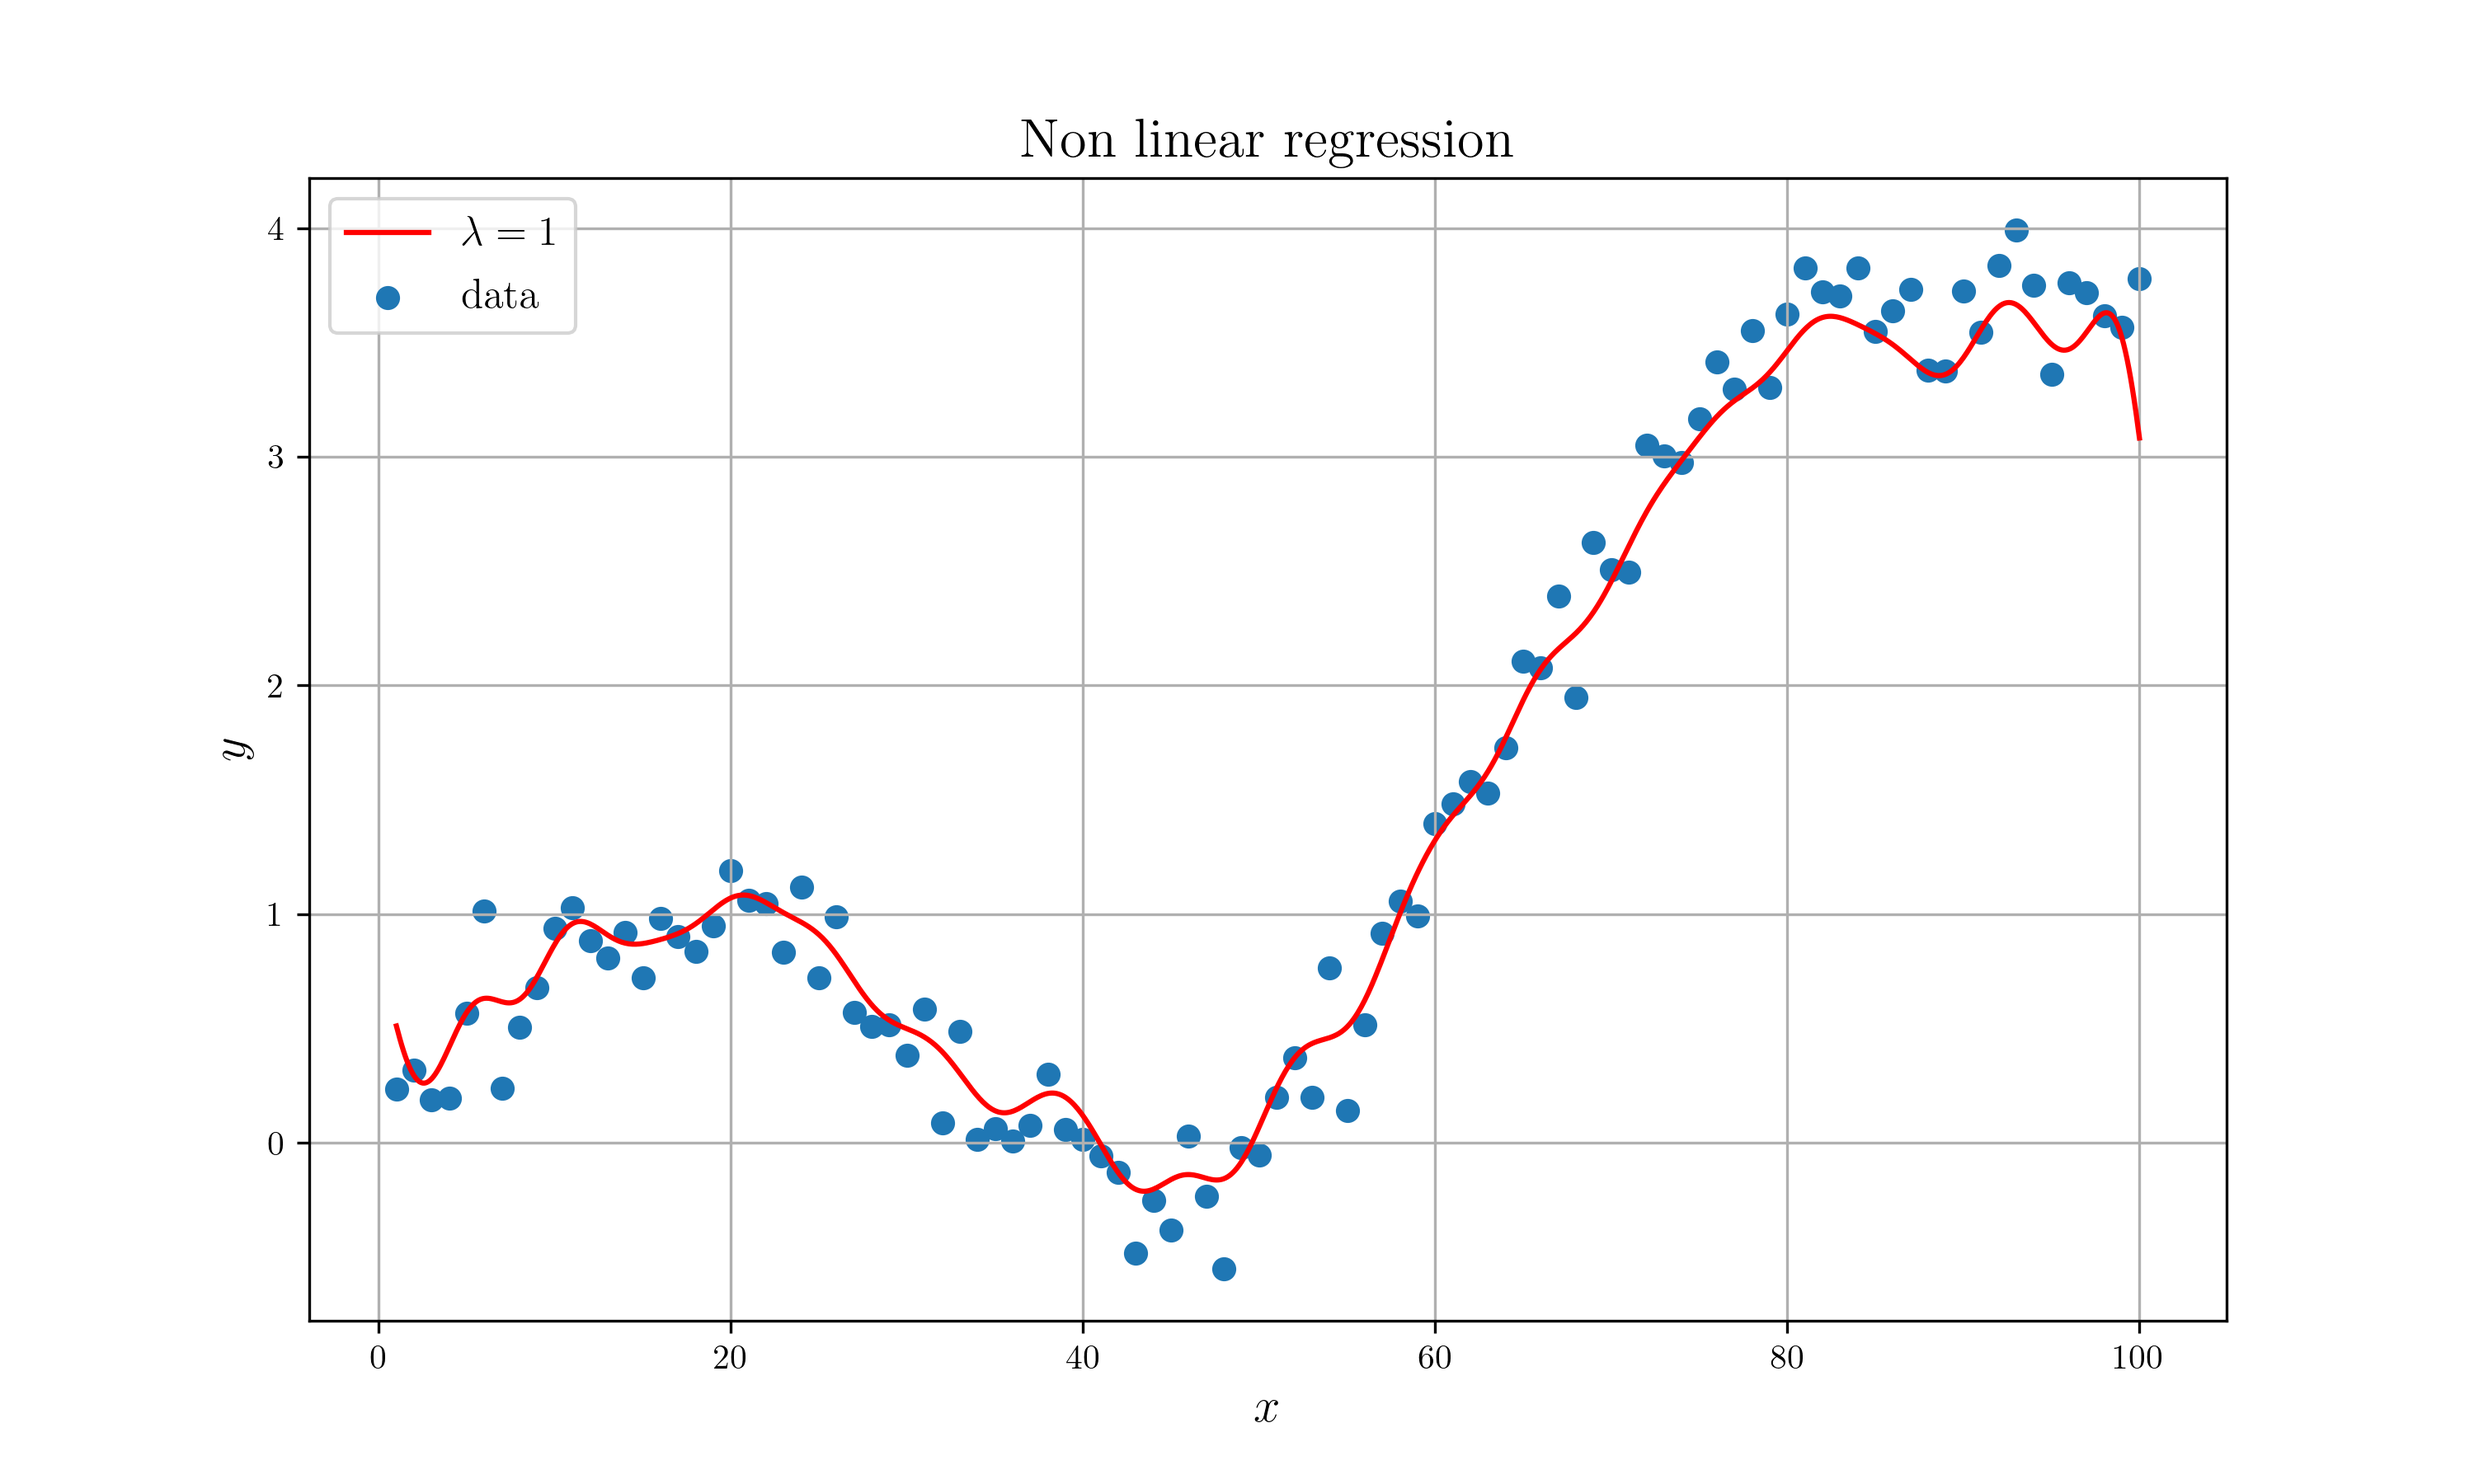
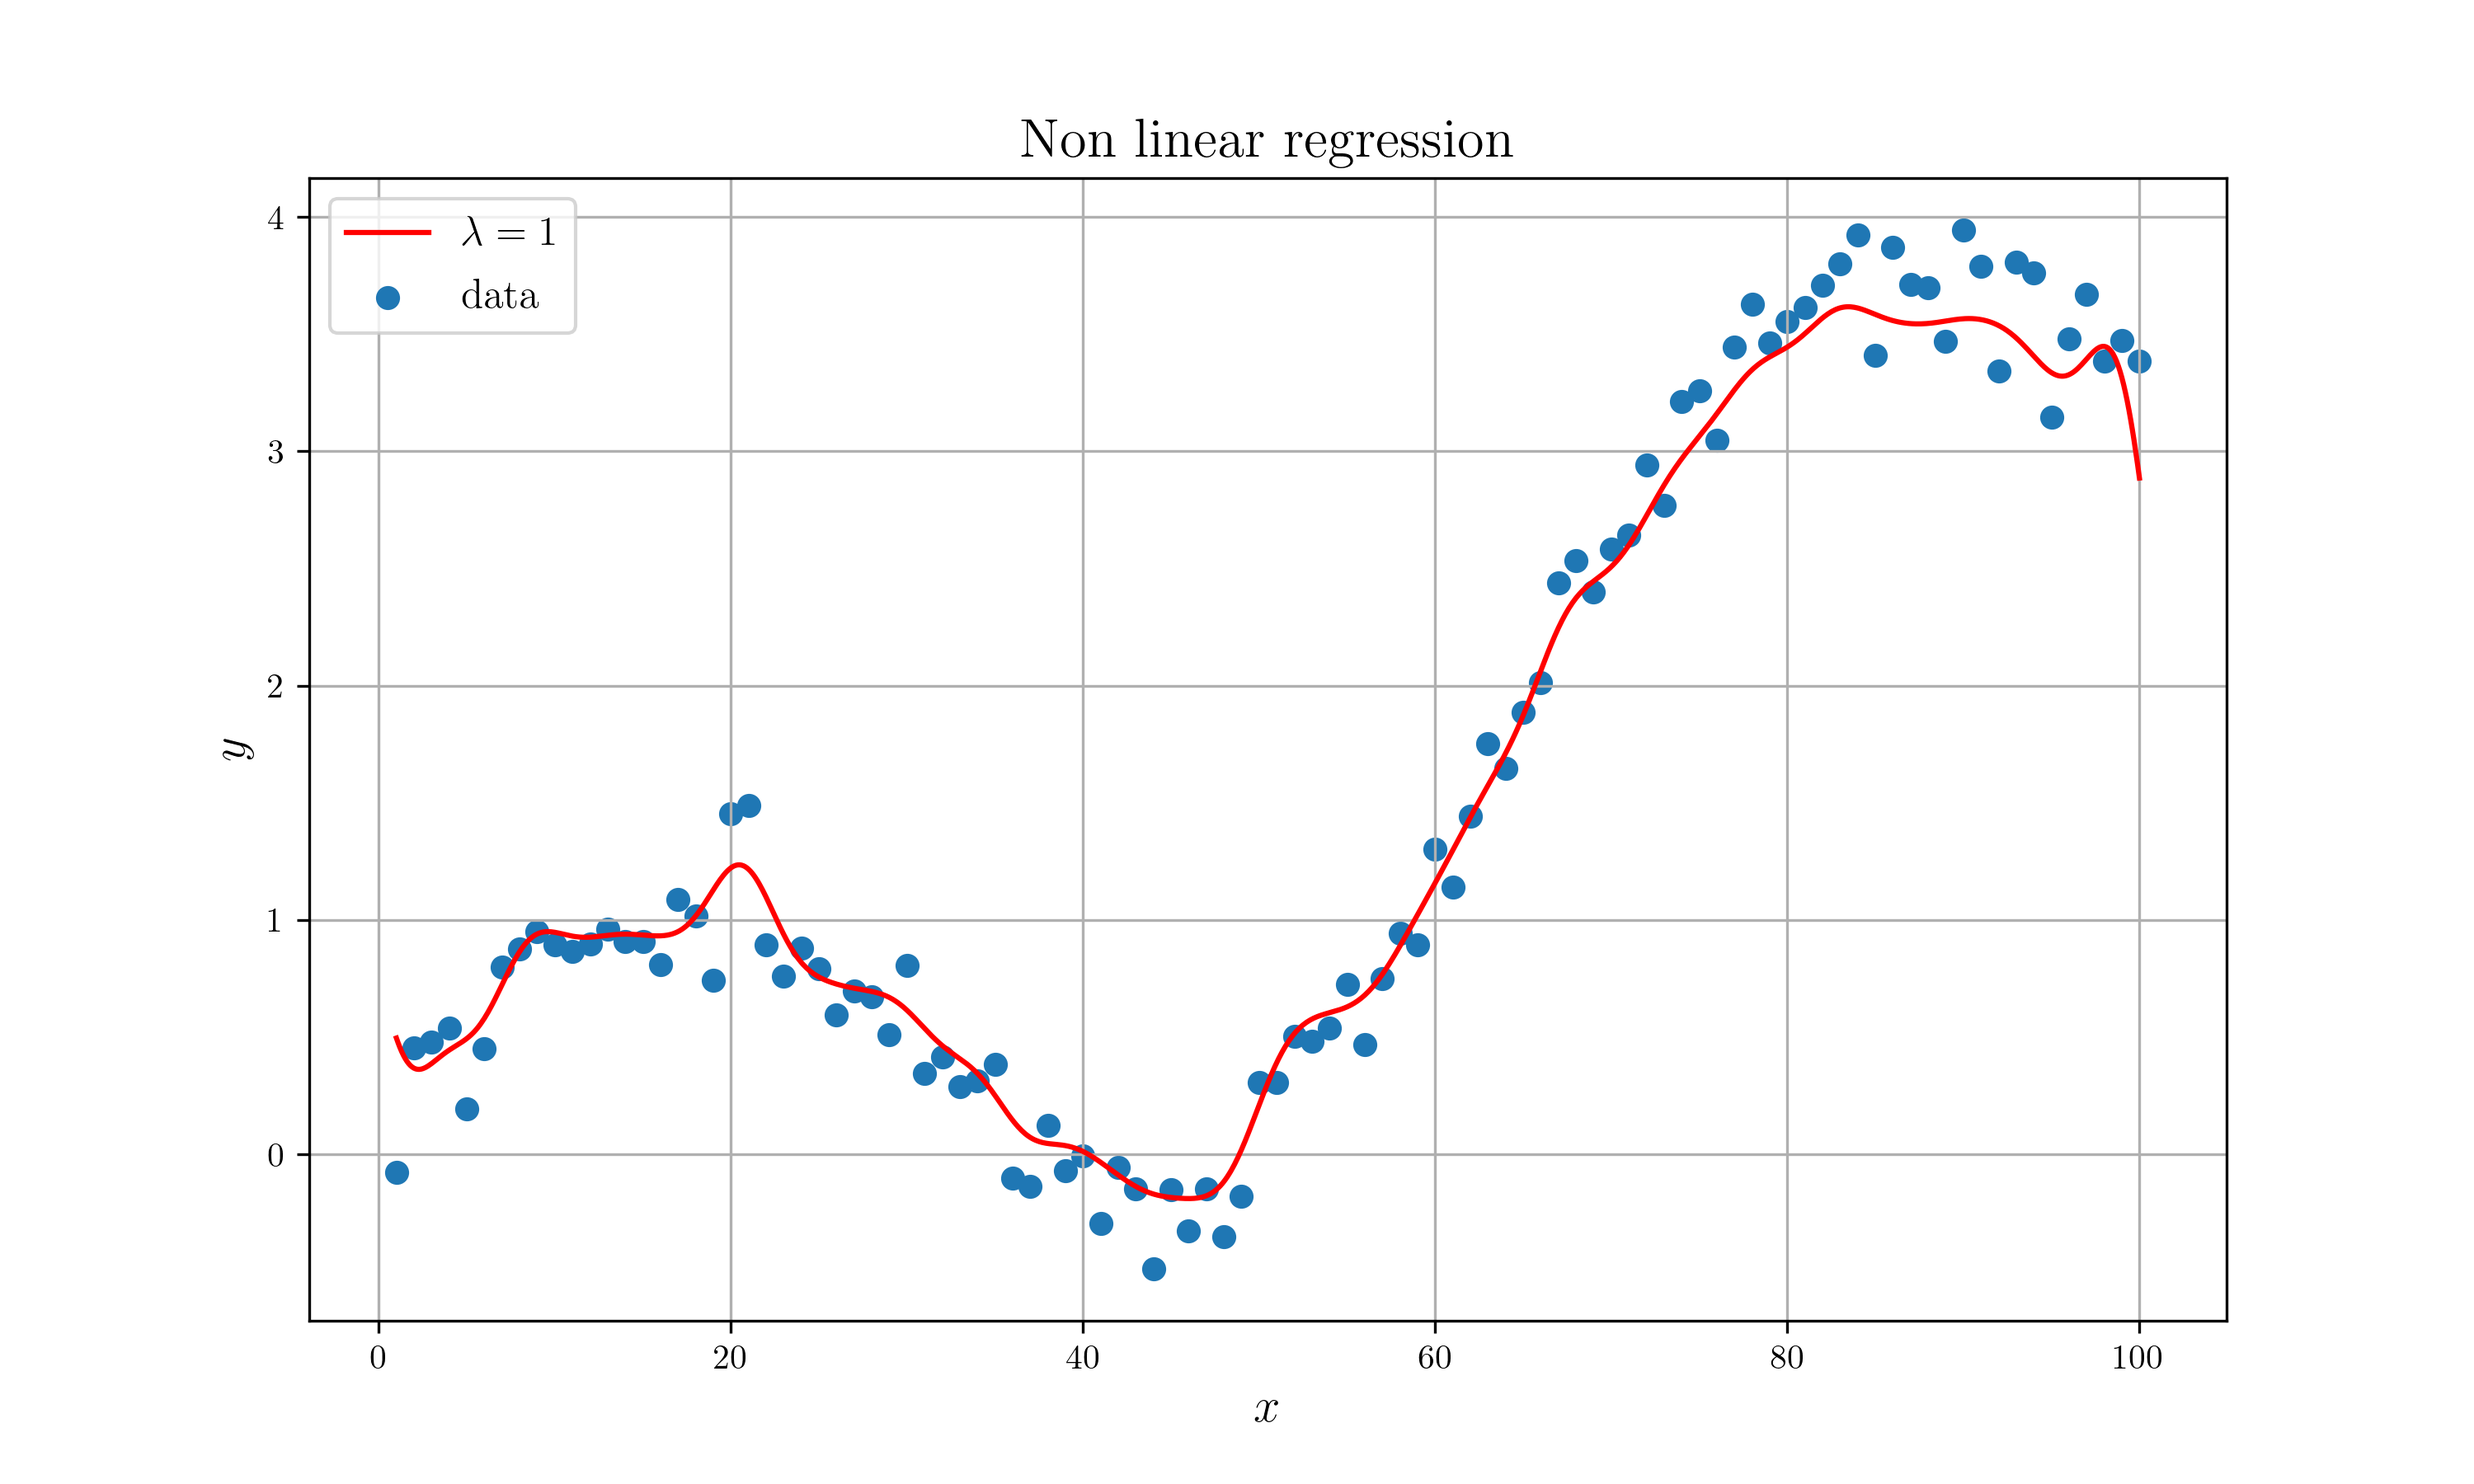
Linear regression version update 0.28.1

Changed region(s): [[0.124, 0.1244, 0.899, 0.8711]]

diff --git a/Machine_Learning/linear_reg_ridge/src/lib.rs b/Machine_Learning/linear_reg_ridge/src/lib.rs
@@ -1,18 +1,18 @@
 extern crate peroxide;
-use peroxide::*;
+use peroxide::fuga::*;
 
 pub fn f(x: f64) -> f64 {
     (x / 10f64).sin() + (x / 50f64).powi(2)
 }
 
 pub fn gen_sample() -> DataFrame {
-    let mut df = DataFrame::with_header(vec!["x", "y"]);
+    let mut df = DataFrame::new(vec![]);
     let normal = Normal(0, 1);
     let e = normal.sample(100).fmap(|t| 0.2 * t);
     let x = seq(1, 100, 1);
-    let y = x.fmap(f).add(&e);
-    df["x"] = x;
-    df["y"] = y;
+    let y = x.fmap(f).add_v(&e);
+    df.push("x", Series::new(x));
+    df.push("y", Series::new(y));
     df
 }
 
@@ -36,20 +36,20 @@ pub fn design_matrix(s: f64) -> Matrix {
     Matrix::from_index(|i, j| phi(j, s, (i+1) as f64), (100, 101))
 }
 
-pub fn w_mle(s: f64, t: &Vec<f64>) -> Matrix {
+pub fn w_mle(s: f64, t: &Vec<f64>) -> Vec<f64> {
     let phi_mat = design_matrix(s);
-    phi_mat.pseudo_inv().unwrap() * t.to_matrix()
+    phi_mat.pseudo_inv().apply(t)
 }
 
-pub fn y(s: f64, w: &Matrix, x: f64) -> f64 {
+pub fn y(s: f64, w: &Vec<f64>, x: f64) -> f64 {
     let phi = phi_vec(s, x);
-    (w.t() * phi)[(0, 0)]
+    w.dot(&phi)
 }
 
 
-pub fn w_ml_reg(s: f64, lam: f64, t: &Vec<f64>) -> Matrix {
+pub fn w_ml_reg(s: f64, lam: f64, t: &Vec<f64>) -> Vec<f64> {
     let phi_mat = design_matrix(s);
     let lamda_eye = lam * eye(101);
     let pt = phi_mat.t();
-    (&lamda_eye + &(&pt * &phi_mat)).inv().unwrap() * pt * t.to_matrix()
+    ((&lamda_eye + &(&pt * &phi_mat)).inv() * pt).apply(t)
 }

diff --git a/Machine_Learning/linear_reg_ridge/src/bin/par_10.rs b/Machine_Learning/linear_reg_ridge/src/bin/par_10.rs
@@ -1,7 +1,7 @@
 extern crate gaussian;
 extern crate peroxide;
 use gaussian::*;
-use peroxide::*;
+use peroxide::fuga::*;
 
 use std::thread;
 use std::sync::mpsc;
@@ -11,8 +11,7 @@ fn main() {
 
     let sample = gen_sample();
     sample.write_nc("data/data.nc").expect("Can't write data.nc");
-    let x = &sample["x"];
-    let t = &sample["y"];
+    let t: Vec<f64> = sample["y"].to_vec();
 
     let s = 5f64;
 
@@ -25,9 +24,9 @@ fn main() {
             let x_draw = seq(1, 100, 0.1);
             let y_draw = x_draw.fmap(|x| y(s, &w_reg, x));
 
-            let mut df = DataFrame::with_header(vec!["x", "y"]);
-            df["x"] = x_draw;
-            df["y"] = y_draw;
+            let mut df = DataFrame::new(vec![]);
+            df.push("x", Series::new(x_draw));
+            df.push("y", Series::new(y_draw));
             let name = format!("data/par/reg_lam_{}.nc", i);
             df.write_nc(&name).expect("Can't write reg.nc");
             tx_sender.send(i).unwrap();

diff --git a/Machine_Learning/linear_reg_ridge/src/bin/par_60.rs b/Machine_Learning/linear_reg_ridge/src/bin/par_60.rs
@@ -1,7 +1,7 @@
 extern crate gaussian;
 extern crate peroxide;
 use gaussian::*;
-use peroxide::*;
+use peroxide::fuga::*;
 
 use std::thread;
 use std::sync::mpsc;
@@ -11,8 +11,7 @@ fn main() {
 
     let sample = gen_sample();
     sample.write_nc("data/data.nc").expect("Can't write data.nc");
-    let x = &sample["x"];
-    let t = &sample["y"];
+    let t: Vec<f64> = sample["y"].to_vec();
 
     let s = 5f64;
 
@@ -25,9 +24,9 @@ fn main() {
             let x_draw = seq(1, 100, 0.1);
             let y_draw = x_draw.fmap(|x| y(s, &w_reg, x));
 
-            let mut df = DataFrame::with_header(vec!["x", "y"]);
-            df["x"] = x_draw;
-            df["y"] = y_draw;
+            let mut df = DataFrame::new(vec![]);
+            df.push("x", Series::new(x_draw));
+            df.push("y", Series::new(y_draw));
             let name = format!("data/par/reg_lam_{}.nc", i);
             df.write_nc(&name).expect("Can't write reg.nc");
             tx_sender.send(i).unwrap();

diff --git a/Machine_Learning/linear_reg_ridge/src/bin/single.rs b/Machine_Learning/linear_reg_ridge/src/bin/single.rs
@@ -1,25 +1,24 @@
 extern crate gaussian;
 extern crate peroxide;
 use gaussian::*;
-use peroxide::*;
+use peroxide::fuga::*;
 
 fn main() {
     let sample = gen_sample();
     sample.write_nc("data/data.nc").expect("Can't write data.nc");
-    let x = &sample["x"];
-    let t = &sample["y"];
+    let t: Vec<f64> = sample["y"].to_vec();
 
     let s = 5f64;
     let lam = 1f64;
     //let w = w_mle(s, t); // Just regression
-    let w_reg = w_ml_reg(s, lam, t);
+    let w_reg = w_ml_reg(s, lam, &t);
 
     let x_draw = seq(1, 100, 0.1);
     let y_draw = x_draw.fmap(|x| y(s, &w_reg, x));
 
-    let mut df = DataFrame::with_header(vec!["x", "y"]);
-    df["x"] = x_draw;
-    df["y"] = y_draw;
+    let mut df = DataFrame::new(vec![]);
+    df.push("x", Series::new(x_draw));
+    df.push("y", Series::new(y_draw));
 
     //df.write_nc("reg.nc").expect("Can't write reg.nc");
     df.write_nc("data/single/reg.nc").expect("Can't write reg_lam_1.nc");
